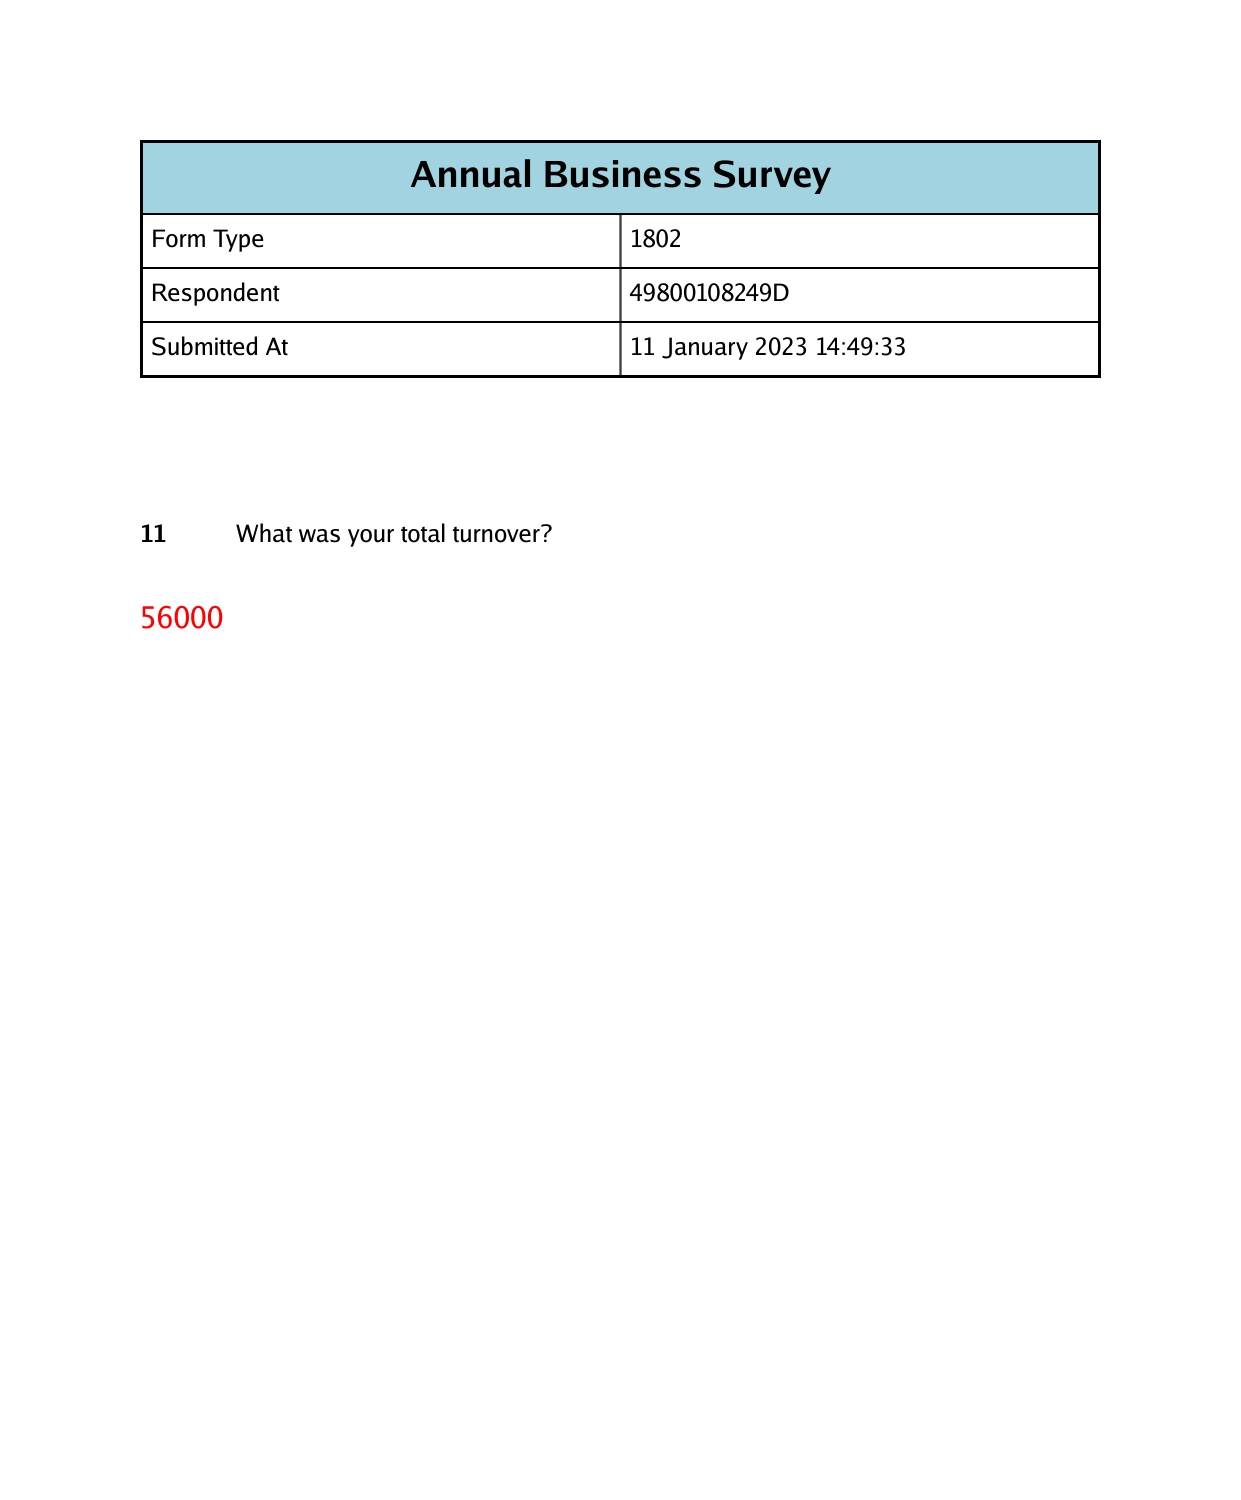
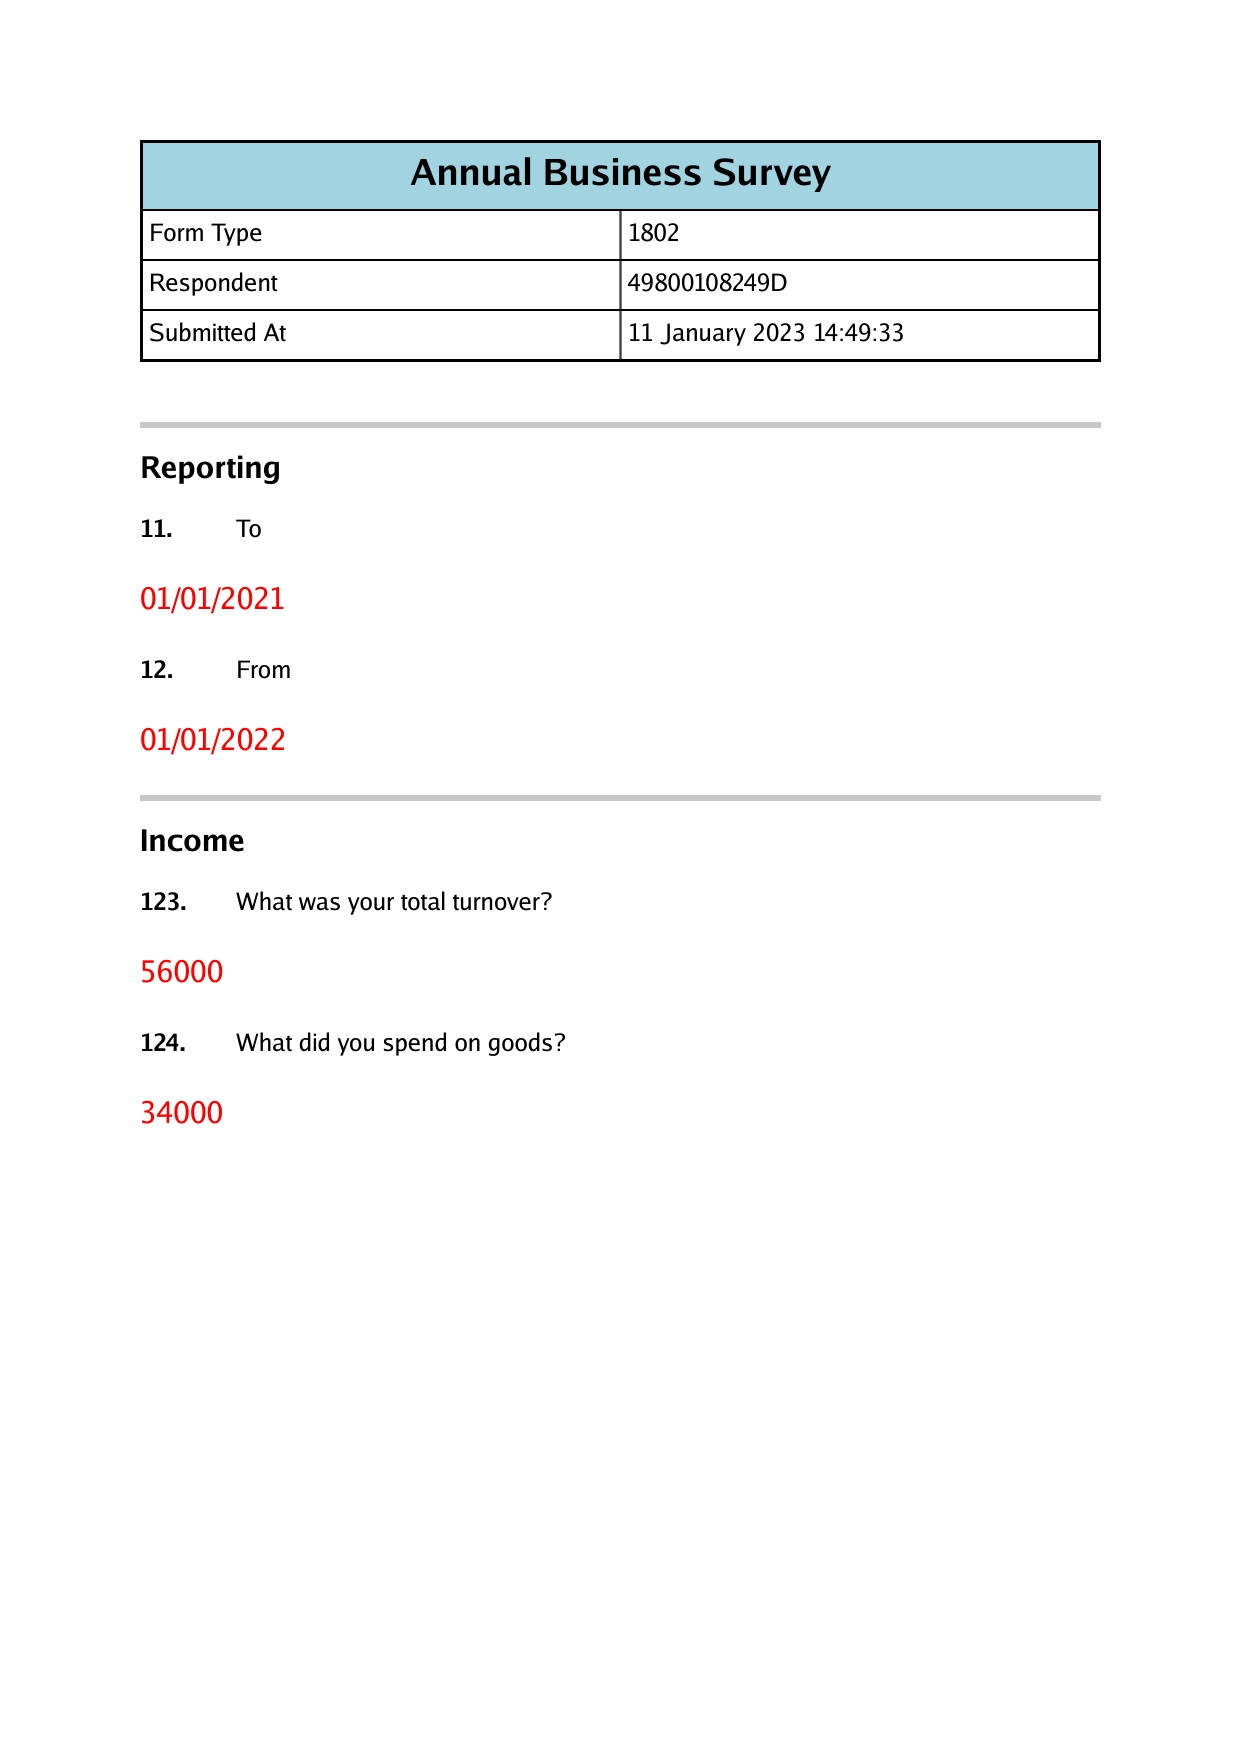
sections

diff --git a/pkg/drawing/container.go b/pkg/drawing/container.go
@@ -25,13 +25,17 @@ const (
 	AlignCenter
 )
 
+type Padding struct {
+	left, right, top, bottom float64
+}
+
 type Container struct {
 	*Div
 	children       []Displayable
 	layout         Layout
 	justifyContent Justification
 	alignItems     Alignment
-	padding        float64
+	padding        Padding
 }
 
 func newContainer(width, height float64) *Container {
@@ -40,43 +44,56 @@ func newContainer(width, height float64) *Container {
 		layout:         LayoutColumn,
 		justifyContent: JustifyStart,
 		alignItems:     AlignStart,
-		padding:        0.0,
+		padding:        Padding{0, 0, 0, 0},
 	}
 }
 
-func (container *Container) SetLayout(layout Layout, justifyContent Justification, alignItems Alignment) {
+func (container *Container) SetLayout(
+	layout Layout,
+	justifyContent Justification,
+	alignItems Alignment) *Container {
+
 	container.layout = layout
 	container.justifyContent = justifyContent
 	container.alignItems = alignItems
+	return container
 }
 
-func (container *Container) SetPadding(padding float64) {
-	container.padding = padding
+func (container *Container) SetPadding(left, top, right, bottom float64) *Container {
+	container.padding.left = left
+	container.padding.top = top
+	container.padding.right = right
+	container.padding.bottom = bottom
+	return container
+}
+
+func (container *Container) SetPaddingAll(padding float64) *Container {
+	return container.SetPadding(padding, padding, padding, padding)
 }
 
 func (container *Container) GetHeight(parent Dimension) float64 {
 	height := container.Div.GetHeight(parent)
 	if height == 0 {
 		internal := container.Div.getInternalDim(parent)
-		internal.width -= 2 * container.padding
-		internal.height -= 2 * container.padding
+		internal.width -= container.padding.left + container.padding.right
+		internal.height -= container.padding.top + container.padding.bottom
 		if container.layout == LayoutColumn {
 			height = container.getTotalChildHeight(internal)
 		} else {
 			height = container.getLargestChildHeight(internal)
 		}
 		height += 2 * container.borderWeight
-		height += 2 * container.padding
+		height += container.padding.top + container.padding.bottom
 	}
 	return height
 }
 
 func (container *Container) Render(area Rectangle, context *gg.Context) {
 	internalArea := container.Div.getInternalArea(area)
-	internalArea.left += container.padding
-	internalArea.top += container.padding
-	internalArea.width -= 2 * container.padding
-	internalArea.height -= 2 * container.padding
+	internalArea.left += container.padding.left
+	internalArea.top += container.padding.top
+	internalArea.width -= container.padding.left + container.padding.right
+	internalArea.height -= container.padding.top + container.padding.bottom
 	container.Div.Render(area, context)
 	container.renderChildren(internalArea, context)
 }

diff --git a/pkg/components/heading.go b/pkg/components/heading.go
@@ -4,20 +4,23 @@ import (
 	"sdxImage/pkg/drawing"
 )
 
-const padding = 8.0
+const padding = 6.0
+
+var cyan = drawing.CreateColor(161, 211, 225)
 
 func CreateHeading(
 	surveyName, formType, ruRef, submittedAt string,
 	canvas *drawing.Canvas,
-	container *drawing.Container) {
+	parent *drawing.Container) {
 
-	headerBox := canvas.AddContainer(1, 0, container)
+	headerArea := canvas.AddContainer(1, 0, parent)
+	headerArea.SetPadding(0, 0, 0, 60)
+
+	headerBox := canvas.AddContainer(1, 0, headerArea)
 	headerBox.SetBorder(drawing.BLACK, 2)
 
 	titleBox := canvas.AddContainer(1, 0, headerBox)
-	titleBox.SetBackgroundColor(drawing.CYAN)
-	titleBox.SetBorder(drawing.BLACK, 1)
-	titleBox.SetPadding(padding)
+	titleBox.SetPaddingAll(padding).SetBackgroundColor(cyan).SetBorder(drawing.BLACK, 1)
 
 	titleText := canvas.AddBoldText(surveyName, 36, titleBox)
 	titleText.SetTextAlign(drawing.TextCenter)
@@ -30,7 +33,7 @@ func CreateHeading(
 	for _, key := range []string{"Form Type", "Respondent", "Submitted At"} {
 		c := canvas.AddContainer(1, 0, detailsLeft)
 		c.SetBorder(drawing.BLACK, 1)
-		c.SetPadding(padding)
+		c.SetPaddingAll(padding)
 		t := canvas.AddText(key, 24, c)
 		t.SetTextAlign(drawing.TextLeft)
 	}
@@ -38,7 +41,7 @@ func CreateHeading(
 	for _, value := range []string{formType, ruRef, submittedAt} {
 		c := canvas.AddContainer(1, 0, detailsRight)
 		c.SetBorder(drawing.BLACK, 1)
-		c.SetPadding(padding)
+		c.SetPaddingAll(padding)
 		t := canvas.AddText(value, 24, c)
 		t.SetTextAlign(drawing.TextLeft)
 	}

diff --git a/pkg/components/answer.go b/pkg/components/answer.go
@@ -5,23 +5,32 @@ import "sdxImage/pkg/drawing"
 const qCodeSize = 24
 const questionSize = 24
 const answerSize = 30
+const answerPadding = 30
 
-func CreateAnswer(qCode, question, answer string, canvas *drawing.Canvas, container *drawing.Container) {
+var red = drawing.CreateColor(255, 0, 0)
 
-	outerContainer := canvas.AddContainer(1, 0, container)
+func createAnswer(
+	qCode,
+	question,
+	answer string,
+	canvas *drawing.Canvas,
+	parent *drawing.Container) {
+
+	outerContainer := canvas.AddContainer(1, 0, parent)
 	outerContainer.SetLayout(drawing.LayoutColumn, drawing.JustifyStart, drawing.AlignStart)
 
 	questionContainer := canvas.AddContainer(1, 0, outerContainer)
 	questionContainer.SetLayout(drawing.LayoutRow, drawing.JustifyStart, drawing.AlignStart)
 
-	qCodeBox := canvas.AddContainer(0.1, 80, questionContainer)
-	canvas.AddBoldText(qCode, qCodeSize, qCodeBox)
+	qCodeBox := canvas.AddContainer(0.1, 0, questionContainer)
+	canvas.AddBoldText(qCode+".", qCodeSize, qCodeBox)
 
 	questionBox := canvas.AddContainer(0.9, 0, questionContainer)
 	canvas.AddText(question, questionSize, questionBox)
 
 	answerContainer := canvas.AddContainer(1, 0, outerContainer)
 	answerContainer.SetLayout(drawing.LayoutRow, drawing.JustifyStart, drawing.AlignStart)
+	answerContainer.SetPadding(0, answerPadding, 0, answerPadding)
 	answerText := canvas.AddText(answer, answerSize, answerContainer)
-	answerText.SetColor(drawing.RED)
+	answerText.SetColor(red)
 }

diff --git a/cmd/main/main.go b/cmd/main/main.go
@@ -10,11 +10,14 @@ import (
 
 func main() {
 	width := 1241
+	minHeight := 1754.0
 	canvas := drawing.NewCanvas(width)
 
-	outer := canvas.AddTopLevelContainer(float64(width), 1500)
-	outer.SetLayout(drawing.LayoutColumn, drawing.JustifyStart, drawing.AlignStart)
-	outer.SetPadding(140)
+	outer := canvas.AddTopLevelContainer(float64(width), 0)
+	outer.SetLayout(
+		drawing.LayoutColumn,
+		drawing.JustifyStart,
+		drawing.AlignStart).SetPaddingAll(140)
 
 	components.CreateHeading(
 		"Annual Business Survey",
@@ -24,11 +27,15 @@ func main() {
 		canvas,
 		outer)
 
-	canvas.AddDiv(1, 140, outer)
+	reportingSection := components.NewSection("Reporting", canvas, outer)
+	reportingSection.AddAnswer("11", "To", "01/01/2021")
+	reportingSection.AddAnswer("12", "From", "01/01/2022")
 
-	components.CreateAnswer("11", "What was your total turnover?", "56000", canvas, outer)
+	incomeSection := components.NewSection("Income", canvas, outer)
+	incomeSection.AddAnswer("123", "What was your total turnover?", "56000")
+	incomeSection.AddAnswer("124", "What did you spend on goods?", "34000")
 
-	err := saveJPG("images/test.jpg", canvas.Draw(), 100)
+	err := saveJPG("images/test.jpg", canvas.Draw(minHeight), 100)
 	if err != nil {
 		return
 	}

diff --git a/pkg/components/section.go b/pkg/components/section.go
@@ -1,0 +1,35 @@
+package components
+
+import "sdxImage/pkg/drawing"
+
+const titleSize = 30
+const titlePadding = 20
+
+type Section struct {
+	title     string
+	canvas    *drawing.Canvas
+	container *drawing.Container
+}
+
+var grey = drawing.CreateColor(200, 200, 200)
+
+func NewSection(title string, canvas *drawing.Canvas, parent *drawing.Container) *Section {
+
+	container := canvas.AddContainer(1, 0, parent).SetLayout(
+		drawing.LayoutColumn, drawing.JustifyStart, drawing.AlignStart)
+
+	canvas.AddDiv(1, 6, container).SetBackgroundColor(grey)
+
+	titleArea := canvas.AddContainer(0.1, 0, container).SetPadding(0, titlePadding, 0, titlePadding)
+	canvas.AddBoldText(title, titleSize, titleArea).SetTextAlign(drawing.TextLeft)
+
+	return &Section{
+		title:     title,
+		canvas:    canvas,
+		container: container,
+	}
+}
+
+func (section *Section) AddAnswer(qCode, question, answer string) {
+	createAnswer(qCode, question, answer, section.canvas, section.container)
+}

diff --git a/pkg/drawing/div.go b/pkg/drawing/div.go
@@ -19,13 +19,15 @@ func newDiv(width, height float64) *Div {
 		borderWeight:    0.0}
 }
 
-func (div *Div) SetBackgroundColor(colour Colour) {
+func (div *Div) SetBackgroundColor(colour Colour) *Div {
 	div.backgroundColor = colour
+	return div
 }
 
-func (div *Div) SetBorder(colour Colour, weight float64) {
+func (div *Div) SetBorder(colour Colour, weight float64) *Div {
 	div.borderColor = colour
 	div.borderWeight = weight
+	return div
 }
 
 func (div *Div) getInternalDim(parent Dimension) Dimension {

diff --git a/pkg/drawing/canvas.go b/pkg/drawing/canvas.go
@@ -48,9 +48,12 @@ func (canvas *Canvas) AddBoldText(value string, size int, container *Container) 
 	return text
 }
 
-func (canvas *Canvas) Draw() image.Image {
+func (canvas *Canvas) Draw(minHeight float64) image.Image {
 	width := canvas.width
 	height := canvas.body.GetHeight(Dimension{width: canvas.width, height: 0})
+	if height < minHeight {
+		height = minHeight
+	}
 
 	context := gg.NewContext(int(width), int(height))
 	area := newRectangle(0, 0, width, height)

diff --git a/pkg/drawing/text.go b/pkg/drawing/text.go
@@ -59,12 +59,14 @@ func newText(value string, size int, bold bool, context *gg.Context) *Text {
 	}
 }
 
-func (text *Text) SetColor(color Colour) {
+func (text *Text) SetColor(color Colour) *Text {
 	text.color = color
+	return text
 }
 
-func (text *Text) SetTextAlign(textAlign TextAlign) {
+func (text *Text) SetTextAlign(textAlign TextAlign) *Text {
 	text.textAlign = textAlign
+	return text
 }
 
 func (text *Text) GetHeight(parent Dimension) float64 {

diff --git a/pkg/drawing/colour.go b/pkg/drawing/colour.go
@@ -26,11 +26,13 @@ func (color Color) B() int {
 	return color.b
 }
 
+func CreateColor(r, g, b int) Colour {
+	return Color{r, g, b}
+}
+
 func setColour(c Colour, context *gg.Context) {
 	context.SetRGB255(c.R(), c.G(), c.B())
 }
 
 var WHITE = Color{255, 255, 255}
 var BLACK = Color{0, 0, 0}
-var RED = Color{255, 0, 0}
-var CYAN = Color{161, 211, 225}
